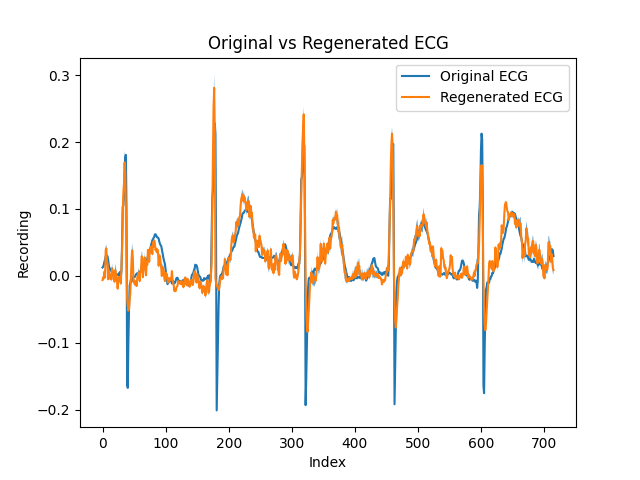
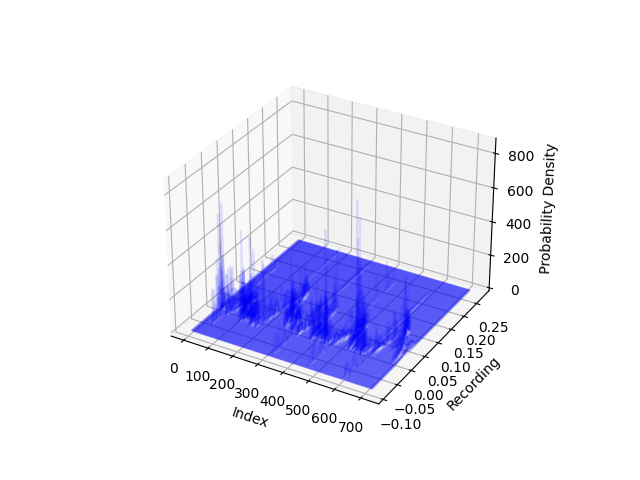
Plotting 3d Gaussian distributions

diff --git a/src/utils.py b/src/utils.py
@@ -7,6 +7,7 @@ from keras.losses import LogCosh, Huber, MeanSquaredError
 import time
 import tensorflow as tf
 import io
+from mpl_toolkits.mplot3d import Axes3D
 
 def progress_bar(iteration, total, prefix='', suffix='', decimals=1, length=50, fill='█'):
     # calculate the percentage of completion
@@ -51,6 +52,8 @@ def performance_vis(test_data, model_id, sample_ind, n_segments, overlap, tr_tim
             regenerations.append(model.predict(test_data))
         regenerated_data = np.mean(regenerations, axis=0)
         regenerated_std = np.std(regenerations, axis=0)
+        # print(f'Means: {regenerated_data[0]}')
+        # print(f'Standard Deviations: {regenerated_std[0]}')
     else:
         # use the model to regenerate the input data once
         regenerated_data = model.predict(test_data)
@@ -120,18 +123,39 @@ def performance_vis(test_data, model_id, sample_ind, n_segments, overlap, tr_tim
     if bayes:
         plt2['err'] = regenerated_err.flatten()
 
-    # plot the original data and the regenerated data
-    plt.plot(plt1['x'], plt1['y'], label=plt1['label'])
-    plt.plot(plt2['x'], plt2['y'], label=plt2['label'])
-    if bayes:
-        plt.fill_between(plt2['x'], plt2['y'] - plt2['err'], plt2['y'] + plt2['err'], alpha=0.7)
-    plt.legend()
-    plt.title('Original vs Regenerated ECG')
-    plt.xlabel('Index')
-    plt.ylabel('Recording')
-    plt.savefig(sys.stdout.buffer)
-    plt.show()
+    if not bayes:
+        # plot the original data and the regenerated data
+        plt.plot(plt1['x'], plt1['y'], label=plt1['label'])
+        plt.plot(plt2['x'], plt2['y'], label=plt2['label'])
+        plt.legend()
+        plt.title('Original vs Regenerated ECG')
+        plt.xlabel('Index')
+        plt.ylabel('Recording')
+        plt.savefig(sys.stdout.buffer)
+        plt.show()
+    else:
+        means = plt2['y']
+        stds = plt2['err']
+
+        plot_gaussians_3d(means, stds, sys.stdout.buffer)
 
     # reset the stdout to the original
     comp_png_file.close()
     sys.stdout = orig_stdout
+
+def plot_gaussians_3d(means, stds, buffer):
+    fig = plt.figure()
+    ax = fig.add_subplot(111, projection='3d')
+
+    x = np.linspace(min(means), max(means), 1000) # 1000 points between -5 and 5
+
+    # Loop over means and stds to plot each gaussian
+    for i, (mean, std) in enumerate(zip(means, stds)):
+        y = 1 / (std * np.sqrt(2 * np.pi)) * np.exp(-0.5 * ((x - mean) / std) ** 2)
+        ax.plot(i*np.ones_like(x), x, y, 'b-', alpha=0.1)
+
+    ax.set_xlabel('Index')
+    ax.set_ylabel('Recording')
+    ax.set_zlabel('Probability Density')
+    plt.savefig(buffer)
+    plt.show()
